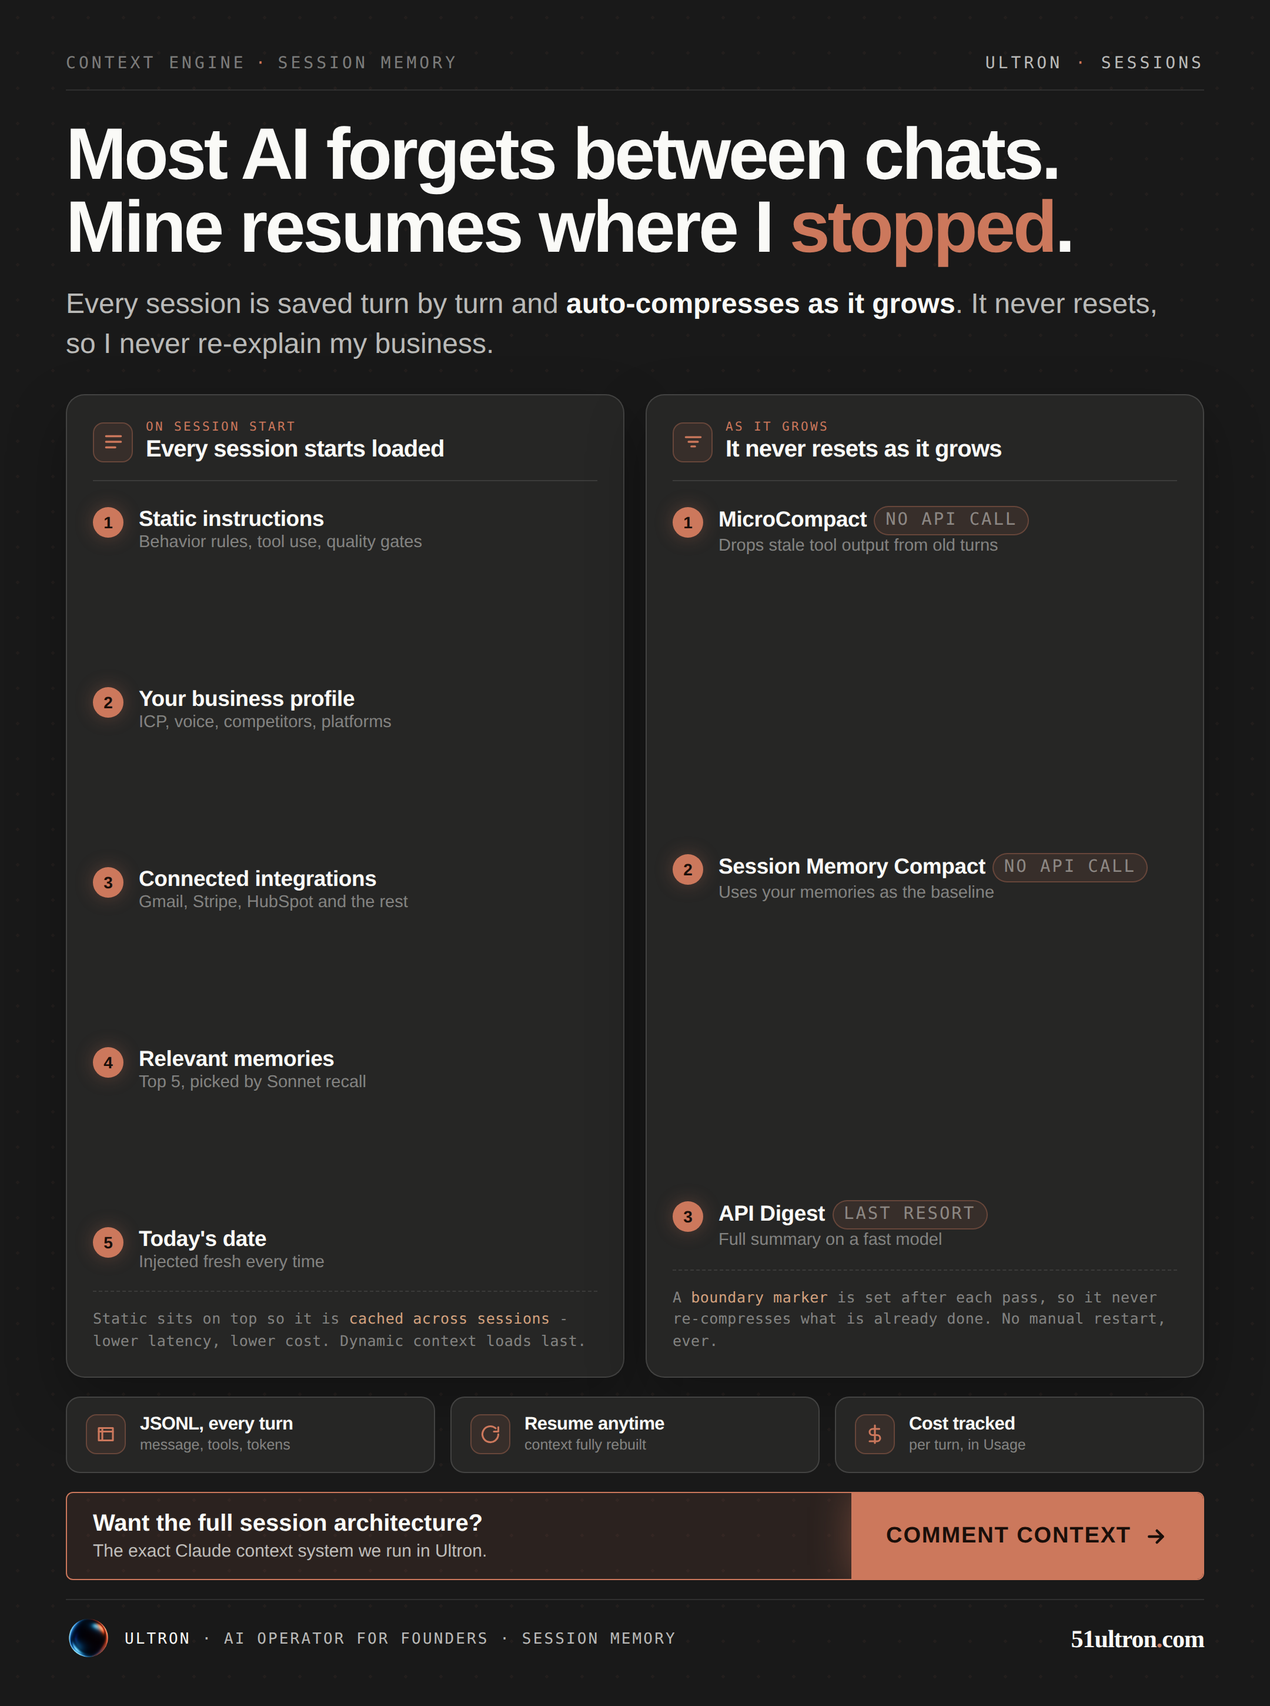
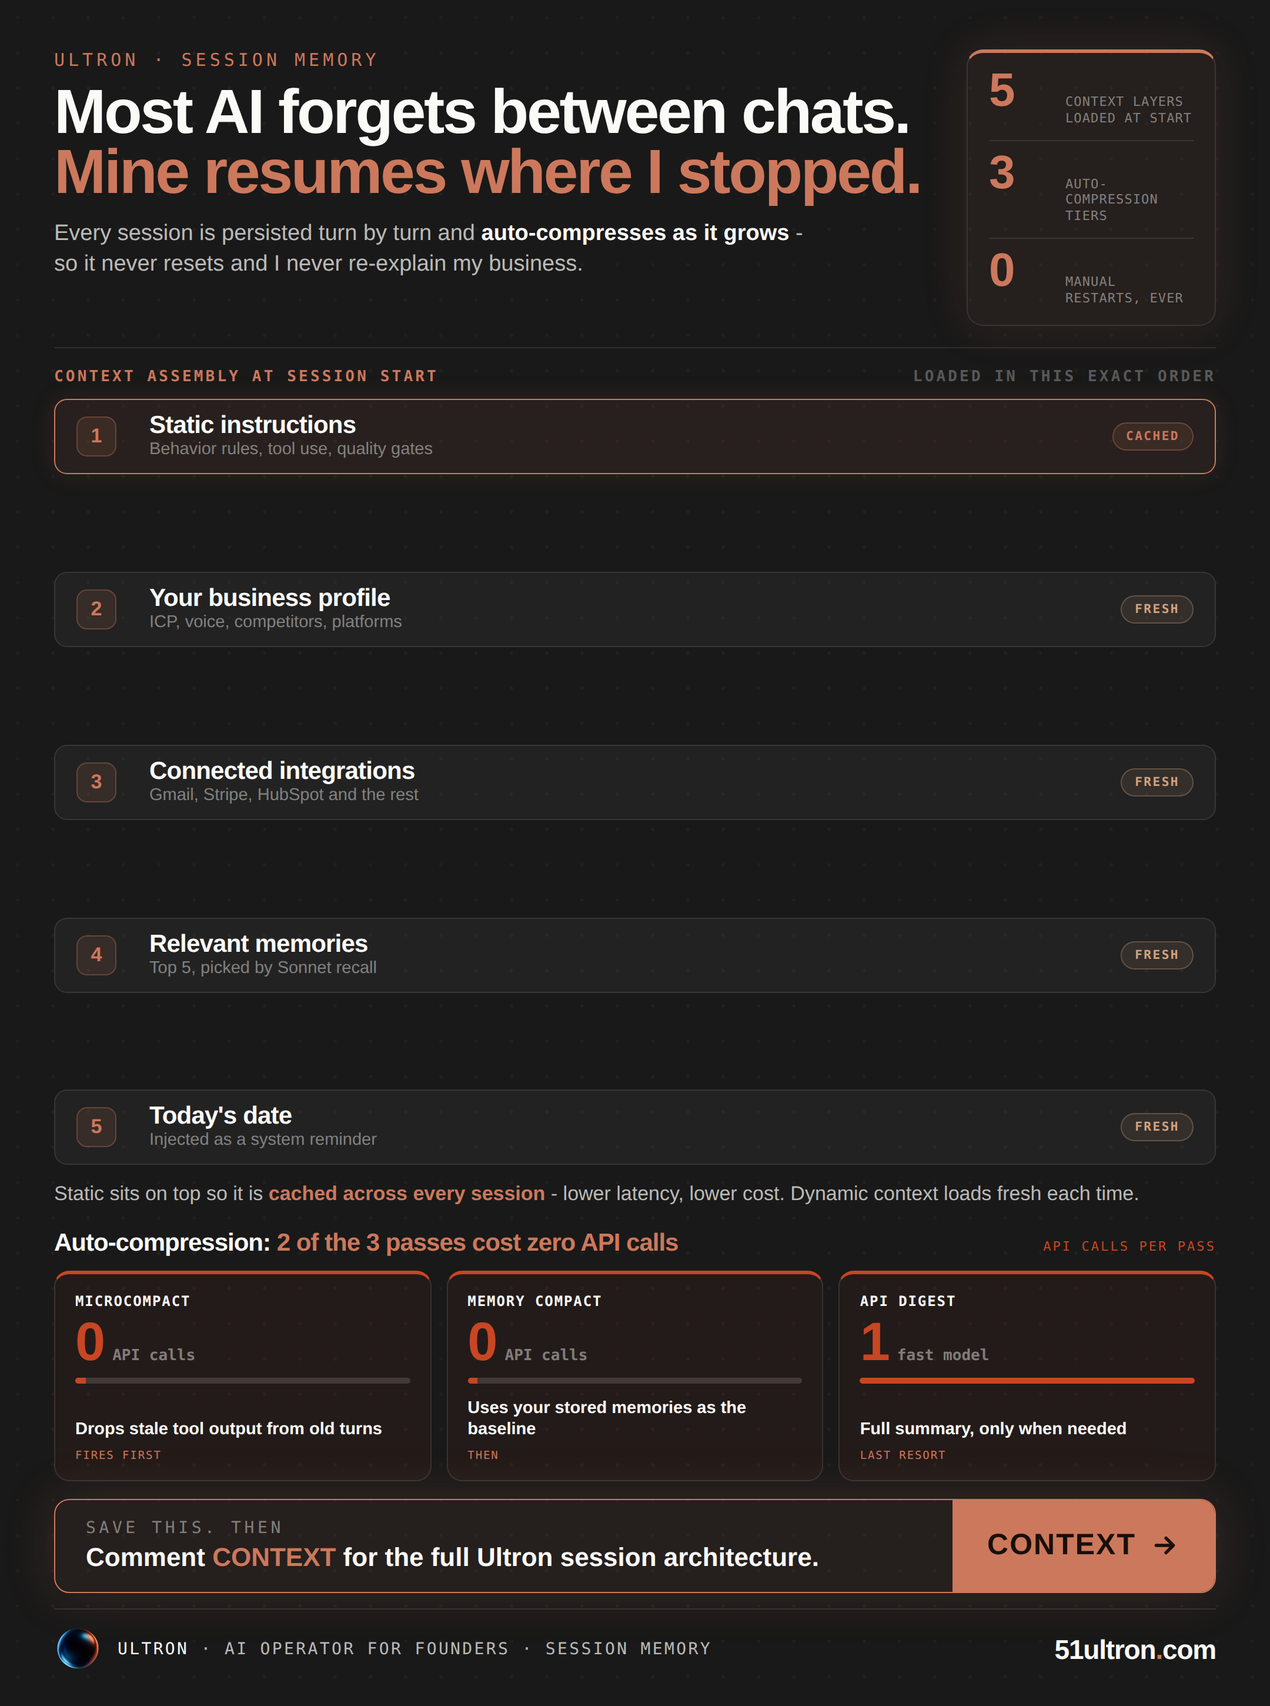
content: docs-10 Session Management LinkedIn - rebuilt dense (weighted boxes)
First version read as a light feature list with dead space. Rebuilt on the
validated dense docs-08 skeleton: hero stat tile (5 layers / 3 tiers / 0 manual
restarts), five weighted context-layer boxes (layer 1 Cached, 2-5 Fresh) for the
exact start-of-session assembly order, and three heavy compression cards with a
big stat each (MicroCompact 0 / Memory Compact 0 / API Digest 1 API calls + cost
bar). Save-this CTA, keyword CONTEXT. 1080x1450 exact, no dead space.

diff --git a/content/docs-10-sessions-linkedin.html b/content/docs-10-sessions-linkedin.html
@@ -1,85 +1,69 @@
-<!DOCTYPE html><html lang="en"><head><meta charset="UTF-8"><link href="https://fonts.googleapis.com/css2?family=DM+Sans:opsz,wght@9..40,400;9..40,500;9..40,700;9..40,800;9..40,900&family=DM+Mono:wght@400;500&display=swap" rel="stylesheet"><style>
-:root{--slate:#191919;--slate2:#262625;--ivory:#FAFAF7;--ink70:rgba(250,250,247,.72);--ink46:rgba(250,250,247,.46);--ink30:rgba(250,250,247,.30);--ink14:rgba(250,250,247,.14);--rule:rgba(250,250,247,.10);--book:#CC785C;--book-d:#C84623;--kraft:#D4A27F;--cloud:#919180;--book-lo:rgba(204,120,92,.10);--book-bd:rgba(204,120,92,.32);}
+<!DOCTYPE html><html lang="en"><head><meta charset="UTF-8"><link href="https://fonts.googleapis.com/css2?family=DM+Sans:opsz,wght@9..40,400;9..40,500;9..40,600;9..40,700;9..40,800;9..40,900&family=DM+Mono:wght@400;500&display=swap" rel="stylesheet"><style>
+:root{--slate:#191919;--slate2:#262625;--ivory:#FAFAF7;--ink70:rgba(250,250,247,.72);--ink46:rgba(250,250,247,.46);--ink30:rgba(250,250,247,.30);--ink14:rgba(250,250,247,.14);--rule:rgba(250,250,247,.10);--book:#CC785C;--book-d:#C84623;--kraft:#D4A27F;--cloud:#919180;}
 *{box-sizing:border-box;margin:0;padding:0;}
-body{background:#0d0d0d;display:flex;justify-content:center;font-family:'DM Sans',sans-serif;-webkit-font-smoothing:antialiased;}
-.art{width:1080px;height:1450px;background:var(--slate);position:relative;overflow:hidden;color:var(--ivory);padding:46px 56px 38px;display:flex;flex-direction:column;}
-.art::before{content:'';position:absolute;inset:0;pointer-events:none;z-index:0;background-image:radial-gradient(rgba(204,120,92,.05) 1.3px,transparent 1.4px);background-size:30px 30px;}
-.atm{position:absolute;inset:0;pointer-events:none;z-index:1;background:radial-gradient(ellipse 56% 30% at 90% 1%,rgba(204,120,92,.17) 0%,transparent 62%),radial-gradient(ellipse 46% 26% at 4% 99%,rgba(212,162,127,.08) 0%,transparent 60%);}
-.art>*{position:relative;z-index:2;}
-.mast{flex-shrink:0;display:flex;align-items:center;justify-content:space-between;border-bottom:1px solid var(--rule);padding-bottom:14px;font-family:'DM Mono',monospace;font-size:14px;font-weight:500;letter-spacing:.18em;text-transform:uppercase;}
-.mast .ml{color:var(--ink46);}.mast .ml .sep{color:var(--book);margin:0 8px;}
-.mast .mr{color:var(--ink70);}.mast .mr em{color:var(--book);font-style:normal;}
-.hero{flex-shrink:0;margin-top:24px;}
-.hook{font-weight:900;font-size:62px;line-height:1;letter-spacing:-2.2px;color:var(--ivory);}
-.hook em{color:var(--book);font-style:normal;}
-.hsub{margin-top:17px;font-size:24px;font-weight:500;line-height:1.4;color:var(--ink70);max-width:950px;}
-.hsub b{color:var(--ivory);font-weight:700;}
-.cols{flex:1;min-height:0;margin-top:26px;display:grid;grid-template-columns:1fr 1fr;gap:18px;}
-.panel{display:flex;flex-direction:column;min-height:0;background:var(--slate2);border:1px solid var(--ink14);border-radius:16px;padding:22px 22px 20px;box-shadow:0 20px 50px rgba(0,0,0,.28);}
-.ph{flex-shrink:0;display:flex;align-items:center;gap:11px;padding-bottom:15px;margin-bottom:6px;border-bottom:1px solid var(--rule);}
-.ph .pi{width:34px;height:34px;border-radius:9px;background:var(--book-lo);border:1px solid var(--book-bd);flex-shrink:0;display:flex;align-items:center;justify-content:center;}
-.ph .pi svg{width:19px;height:19px;stroke:var(--book);stroke-width:2.1;fill:none;stroke-linecap:round;stroke-linejoin:round;}
-.ph .pt{font-size:20px;font-weight:800;letter-spacing:-.4px;color:var(--ivory);line-height:1.05;}
-.ph .pt span{display:block;font-family:'DM Mono',monospace;font-size:10.5px;font-weight:500;letter-spacing:.16em;text-transform:uppercase;color:var(--book);margin-bottom:3px;}
-.rows{flex:1;display:flex;flex-direction:column;justify-content:space-between;gap:11px;padding:15px 0;}
-.row{display:flex;align-items:flex-start;gap:13px;}
-.row .n{width:26px;height:26px;border-radius:50%;background:var(--book);color:#1a0f0a;font-weight:900;font-size:14px;display:flex;align-items:center;justify-content:center;flex-shrink:0;margin-top:1px;box-shadow:0 0 16px rgba(204,120,92,.3);}
-.row .tx{min-width:0;}
-.row .tx b{display:block;font-size:18.5px;font-weight:700;color:var(--ivory);line-height:1.18;letter-spacing:-.2px;}
-.row .tx span{font-size:14.5px;font-weight:500;color:var(--ink46);line-height:1.3;}
-.tag{display:inline-block;font-family:'DM Mono',monospace;font-size:10px;font-weight:500;letter-spacing:.1em;text-transform:uppercase;color:var(--book);background:var(--book-lo);border:1px solid var(--book-bd);border-radius:20px;padding:2px 9px;margin-left:6px;vertical-align:1.5px;}
-.note{margin-top:auto;padding-top:14px;font-family:'DM Mono',monospace;font-size:12.5px;line-height:1.5;letter-spacing:.02em;color:var(--ink46);border-top:1px dashed var(--rule);}
-.note b{color:var(--kraft);font-weight:500;}
-.strip{flex-shrink:0;margin-top:16px;display:grid;grid-template-columns:1fr 1fr 1fr;gap:13px;}
-.cell{background:var(--slate2);border:1px solid var(--ink14);border-radius:12px;padding:14px 16px;display:flex;align-items:center;gap:12px;}
-.cell .ci{width:34px;height:34px;border-radius:9px;background:var(--book-lo);border:1px solid var(--book-bd);flex-shrink:0;display:flex;align-items:center;justify-content:center;}
-.cell .ci svg{width:18px;height:18px;stroke:var(--book);stroke-width:2.1;fill:none;stroke-linecap:round;stroke-linejoin:round;}
-.cell .cx b{display:block;font-size:15.5px;font-weight:800;color:var(--ivory);line-height:1.1;letter-spacing:-.3px;}
-.cell .cx span{font-size:12.5px;font-weight:500;color:var(--ink46);}
-.cta{flex-shrink:0;margin-top:16px;display:flex;align-items:stretch;border:1px solid var(--book);border-radius:6px;overflow:hidden;}
-.cta-l{flex:1;padding:15px 22px;display:flex;flex-direction:column;justify-content:center;gap:3px;background:var(--book-lo);}
-.cta-l b{font-size:20px;font-weight:800;color:var(--ivory);}.cta-l span{font-size:15px;color:var(--ink70);}
-.cta-r{flex-shrink:0;padding:0 30px;display:flex;align-items:center;gap:11px;background:var(--book);font-size:19px;font-weight:900;letter-spacing:.05em;text-transform:uppercase;color:#1a0f0a;box-shadow:0 0 34px rgba(204,120,92,.4);}
-.cta-r svg{width:20px;height:20px;stroke:#1a0f0a;stroke-width:2.7;fill:none;stroke-linecap:round;stroke-linejoin:round;}
-.ftr{flex-shrink:0;margin-top:16px;padding-top:14px;border-top:1px solid var(--rule);display:flex;align-items:center;justify-content:space-between;gap:16px;}
-.fl{display:flex;align-items:center;gap:12px;min-width:0;}.flogo{width:38px;height:38px;border-radius:50%;object-fit:cover;flex-shrink:0;}
-.ftx{font-family:'DM Mono',monospace;font-size:13px;font-weight:400;letter-spacing:.12em;text-transform:uppercase;color:var(--ink70);}.ftx b{color:var(--ivory);font-weight:500;}
-.furl{font-family:'DM Sans';font-weight:900;font-size:21px;letter-spacing:-.5px;color:var(--ivory);flex-shrink:0;}.furl em{color:var(--book);font-style:normal;}
-</style></head><body>
-<div class="art"><div class="atm"></div>
-  <div class="mast"><span class="ml">CONTEXT ENGINE<span class="sep">&middot;</span>SESSION MEMORY</span><span class="mr">ULTRON <em>&middot;</em> SESSIONS</span></div>
-  <div class="hero">
-    <div class="hook">Most AI forgets between chats.<br>Mine resumes where I <em>stopped</em>.</div>
-    <div class="hsub">Every session is saved turn by turn and <b>auto-compresses as it grows</b>. It never resets, so I never re-explain my business.</div>
-  </div>
-  <div class="cols">
-    <div class="panel">
-      <div class="ph"><span class="pi"><svg viewBox="0 0 24 24"><path d="M4 6h16M4 12h16M4 18h10"/></svg></span><span class="pt"><span>On session start</span>Every session starts loaded</span></div>
-      <div class="rows">
-        <div class="row"><span class="n">1</span><span class="tx"><b>Static instructions</b><span>Behavior rules, tool use, quality gates</span></span></div>
-        <div class="row"><span class="n">2</span><span class="tx"><b>Your business profile</b><span>ICP, voice, competitors, platforms</span></span></div>
-        <div class="row"><span class="n">3</span><span class="tx"><b>Connected integrations</b><span>Gmail, Stripe, HubSpot and the rest</span></span></div>
-        <div class="row"><span class="n">4</span><span class="tx"><b>Relevant memories</b><span>Top 5, picked by Sonnet recall</span></span></div>
-        <div class="row"><span class="n">5</span><span class="tx"><b>Today's date</b><span>Injected fresh every time</span></span></div>
-      </div>
-      <div class="note">Static sits on top so it is <b>cached across sessions</b> - lower latency, lower cost. Dynamic context loads last.</div>
-    </div>
-    <div class="panel">
-      <div class="ph"><span class="pi"><svg viewBox="0 0 24 24"><path d="M4 7h16M7 12h10M10 17h4"/></svg></span><span class="pt"><span>As it grows</span>It never resets as it grows</span></div>
-      <div class="rows">
-        <div class="row"><span class="n">1</span><span class="tx"><b>MicroCompact<span class="tag">no API call</span></b><span>Drops stale tool output from old turns</span></span></div>
-        <div class="row"><span class="n">2</span><span class="tx"><b>Session Memory Compact<span class="tag">no API call</span></b><span>Uses your memories as the baseline</span></span></div>
-        <div class="row"><span class="n">3</span><span class="tx"><b>API Digest<span class="tag">last resort</span></b><span>Full summary on a fast model</span></span></div>
-      </div>
-      <div class="note">A <b>boundary marker</b> is set after each pass, so it never re-compresses what is already done. No manual restart, ever.</div>
-    </div>
-  </div>
-  <div class="strip">
-    <div class="cell"><span class="ci"><svg viewBox="0 0 24 24"><path d="M4 5h16v14H4z"/><path d="M4 9h16M8 5v14"/></svg></span><span class="cx"><b>JSONL, every turn</b><span>message, tools, tokens</span></span></div>
-    <div class="cell"><span class="ci"><svg viewBox="0 0 24 24"><path d="M21 12a9 9 0 1 1-3-6.7"/><path d="M21 4v5h-5"/></svg></span><span class="cx"><b>Resume anytime</b><span>context fully rebuilt</span></span></div>
-    <div class="cell"><span class="ci"><svg viewBox="0 0 24 24"><path d="M12 2v20M17 6H9.5a3.5 3.5 0 0 0 0 7h5a3.5 3.5 0 0 1 0 7H6"/></svg></span><span class="cx"><b>Cost tracked</b><span>per turn, in Usage</span></span></div>
-  </div>
-  <div class="cta"><div class="cta-l"><b>Want the full session architecture?</b><span>The exact Claude context system we run in Ultron.</span></div><div class="cta-r">Comment CONTEXT<svg viewBox="0 0 24 24"><path d="M5 12h14M13 6l6 6-6 6"/></svg></div></div>
-  <div class="ftr"><div class="fl"><img class="flogo" src="__LOGO_URI__" alt="Ultron"><div class="ftx"><b>ULTRON</b> &middot; AI OPERATOR FOR FOUNDERS &middot; SESSION MEMORY</div></div><div class="furl">51ultron<em>.</em>com</div></div>
+body{background:#0d0d0d;display:flex;justify-content:center;padding:24px 0;font-family:'DM Sans',sans-serif;-webkit-font-smoothing:antialiased;}
+.frame{width:1080px;height:1450px;background:var(--slate);padding:42px 46px 28px;position:relative;overflow:hidden;color:var(--ivory);display:flex;flex-direction:column;}
+.frame::before{content:'';position:absolute;inset:0;pointer-events:none;z-index:0;background-image:radial-gradient(rgba(204,120,92,.06) 1.4px,transparent 1.5px);background-size:30px 30px;}
+.atm{position:absolute;inset:0;pointer-events:none;z-index:1;background:radial-gradient(ellipse 56% 28% at 88% -1%,rgba(204,120,92,.2) 0%,transparent 60%),radial-gradient(ellipse 50% 24% at 4% 101%,rgba(212,162,127,.1) 0%,transparent 60%);}
+.frame>*{position:relative;z-index:2;}
+.hero{flex-shrink:0;display:flex;align-items:flex-start;justify-content:space-between;gap:26px;padding-bottom:18px;border-bottom:1px solid var(--rule);}
+.eye{font-family:'DM Mono',monospace;font-size:15px;font-weight:500;letter-spacing:.2em;text-transform:uppercase;color:var(--book);margin-bottom:11px;}
+.hook{font-weight:900;font-size:53px;line-height:.96;letter-spacing:-1.7px;color:var(--ivory);}.hook em{color:var(--book);font-style:normal;}
+.sub{margin-top:13px;font-size:19px;font-weight:500;line-height:1.4;color:var(--ink70);max-width:640px;}.sub b{color:var(--ivory);font-weight:700;}
+.statile{flex-shrink:0;width:212px;background:rgba(204,120,92,.07);border:1px solid var(--rule);border-top:3px solid var(--book);border-radius:14px;padding:16px 18px;display:flex;flex-direction:column;gap:11px;box-shadow:0 0 40px rgba(204,120,92,.14);}
+.st{display:flex;align-items:baseline;gap:11px;}.st+.st{border-top:1px solid var(--rule);padding-top:11px;}
+.st .sn{font-weight:900;font-size:40px;color:var(--book);line-height:.8;min-width:54px;}
+.st .sl{font-family:'DM Mono',monospace;font-size:11px;font-weight:500;letter-spacing:.05em;text-transform:uppercase;color:var(--ink46);line-height:1.25;}
+.sec{font-family:'DM Mono',monospace;font-size:13px;font-weight:600;letter-spacing:.16em;text-transform:uppercase;color:var(--book);flex-shrink:0;margin:17px 0 11px;display:flex;justify-content:space-between;}
+.sec .sx{color:var(--ink30);}
+.stack{flex:1;display:flex;flex-direction:column;min-height:0;justify-content:space-between;gap:9px;}
+.srow{display:grid;grid-template-columns:46px 1fr auto;align-items:center;gap:16px;background:rgba(250,250,247,.04);border:1px solid var(--rule);border-radius:11px;padding:11px 18px;}
+.srow.cache{border-color:var(--book);background:rgba(204,120,92,.08);box-shadow:0 0 22px rgba(204,120,92,.12);}
+.srow .n{width:34px;height:34px;border-radius:9px;background:rgba(204,120,92,.12);border:1px solid rgba(204,120,92,.32);color:var(--book);font-weight:900;font-size:17px;display:flex;align-items:center;justify-content:center;}
+.srow .l b{display:block;font-size:21px;font-weight:800;letter-spacing:-.4px;color:var(--ivory);line-height:1.05;}
+.srow .l span{font-size:14.5px;font-weight:500;color:var(--ink46);}
+.srow .t{font-family:'DM Mono',monospace;font-size:10.5px;font-weight:600;letter-spacing:.12em;text-transform:uppercase;padding:5px 11px;border-radius:20px;white-space:nowrap;}
+.t.c{color:var(--book);background:rgba(204,120,92,.12);border:1px solid rgba(204,120,92,.34);}
+.t.f{color:var(--kraft);background:rgba(212,162,127,.1);border:1px solid rgba(212,162,127,.3);}
+.fnote{flex-shrink:0;font-size:17px;font-weight:500;line-height:1.4;color:var(--ink70);margin-top:13px;}.fnote b{color:var(--book);font-weight:800;}
+.wsec{flex-shrink:0;display:flex;align-items:baseline;justify-content:space-between;gap:14px;margin:18px 0 11px;}
+.wsec .wl{font-weight:800;font-size:21px;letter-spacing:-.5px;color:var(--ivory);}.wsec .wl em{color:var(--book);font-style:normal;}
+.wsec .wr{font-family:'DM Mono',monospace;font-size:11px;letter-spacing:.14em;text-transform:uppercase;color:var(--book-d);white-space:nowrap;}
+.wedge{flex-shrink:0;display:grid;grid-template-columns:repeat(3,1fr);gap:13px;}
+.wcard{background:rgba(200,70,35,.06);border:1px solid var(--rule);border-top:3px solid var(--book-d);border-radius:13px;padding:16px 17px 15px;display:flex;flex-direction:column;}
+.wdim{font-family:'DM Mono',monospace;font-size:12px;font-weight:600;letter-spacing:.08em;text-transform:uppercase;color:var(--ivory);}
+.wnum{font-weight:900;font-size:46px;color:var(--book-d);line-height:.85;margin:8px 0 2px;}.wnum span{font-size:13px;color:var(--ink46);font-family:'DM Mono',monospace;font-weight:600;margin-left:6px;}
+.wbar{height:5px;border-radius:3px;background:var(--ink14);overflow:hidden;margin:9px 0 12px;}.wbar i{display:block;height:100%;background:var(--book-d);}
+.wship{font-size:14.5px;font-weight:700;color:var(--ivory);line-height:1.25;margin-top:auto;}
+.wtag{font-family:'DM Mono',monospace;font-size:9.5px;font-weight:500;letter-spacing:.1em;text-transform:uppercase;color:var(--book);margin-top:7px;}
+.cta{flex-shrink:0;margin-top:15px;display:flex;align-items:stretch;border:1px solid var(--book);border-radius:13px;overflow:hidden;box-shadow:0 0 44px rgba(204,120,92,.18);}
+.cta-l{flex:1;padding:16px 26px;display:flex;flex-direction:column;justify-content:center;gap:4px;background:rgba(204,120,92,.07);}
+.cta-k{font-family:'DM Mono',monospace;font-size:14px;font-weight:500;letter-spacing:.2em;text-transform:uppercase;color:var(--ink46);}
+.cta-t{font-size:22px;font-weight:700;color:var(--ivory);line-height:1.2;}.cta-t b{color:var(--book);font-weight:900;}
+.cta-chip{flex-shrink:0;padding:0 30px;gap:12px;background:var(--book);display:flex;align-items:center;font-size:25px;font-weight:900;letter-spacing:.04em;text-transform:uppercase;color:#1a0f0a;}
+.cta-chip svg{width:25px;height:25px;stroke:#1a0f0a;stroke-width:2.6;fill:none;stroke-linecap:round;stroke-linejoin:round;}
+.ftr{flex-shrink:0;margin-top:13px;display:flex;align-items:center;justify-content:space-between;gap:18px;border-top:1px solid var(--rule);padding-top:14px;}
+.fl{display:flex;align-items:center;gap:14px;min-width:0;}.flogo{width:40px;height:40px;border-radius:50%;object-fit:cover;}
+.ftx{font-family:'DM Mono',monospace;font-size:14px;font-weight:400;letter-spacing:.12em;text-transform:uppercase;color:var(--ink70);}.ftx b{color:var(--ivory);font-weight:500;}
+.furl{font-weight:900;font-size:23px;letter-spacing:-.6px;color:var(--ivory);}.furl em{color:var(--book);font-style:normal;}
+</style></head><body><div class="frame" id="artifact"><div class="atm"></div>
+<div class="hero"><div><div class="eye">Ultron &middot; Session Memory</div><div class="hook">Most AI forgets between chats. <em>Mine resumes where I stopped.</em></div><div class="sub">Every session is persisted turn by turn and <b>auto-compresses as it grows</b> - so it never resets and I never re-explain my business.</div></div>
+<div class="statile"><div class="st"><div class="sn">5</div><div class="sl">context layers loaded at start</div></div><div class="st"><div class="sn">3</div><div class="sl">auto-compression tiers</div></div><div class="st"><div class="sn">0</div><div class="sl">manual restarts, ever</div></div></div></div>
+<div class="sec"><span>Context assembly at session start</span><span class="sx">loaded in this exact order</span></div>
+<div class="stack">
+<div class="srow cache"><div class="n">1</div><div class="l"><b>Static instructions</b><span>Behavior rules, tool use, quality gates</span></div><div class="t c">Cached</div></div>
+<div class="srow"><div class="n">2</div><div class="l"><b>Your business profile</b><span>ICP, voice, competitors, platforms</span></div><div class="t f">Fresh</div></div>
+<div class="srow"><div class="n">3</div><div class="l"><b>Connected integrations</b><span>Gmail, Stripe, HubSpot and the rest</span></div><div class="t f">Fresh</div></div>
+<div class="srow"><div class="n">4</div><div class="l"><b>Relevant memories</b><span>Top 5, picked by Sonnet recall</span></div><div class="t f">Fresh</div></div>
+<div class="srow"><div class="n">5</div><div class="l"><b>Today's date</b><span>Injected as a system reminder</span></div><div class="t f">Fresh</div></div>
 </div>
-</body></html>
+<div class="fnote">Static sits on top so it is <b>cached across every session</b> - lower latency, lower cost. Dynamic context loads fresh each time.</div>
+<div class="wsec"><div class="wl">Auto-compression: <em>2 of the 3 passes cost zero API calls</em></div><div class="wr">API calls per pass</div></div>
+<div class="wedge">
+<div class="wcard"><div class="wdim">MicroCompact</div><div class="wnum">0<span>API calls</span></div><div class="wbar"><i style="width:3%"></i></div><div class="wship">Drops stale tool output from old turns</div><div class="wtag">Fires first</div></div>
+<div class="wcard"><div class="wdim">Memory Compact</div><div class="wnum">0<span>API calls</span></div><div class="wbar"><i style="width:3%"></i></div><div class="wship">Uses your stored memories as the baseline</div><div class="wtag">Then</div></div>
+<div class="wcard"><div class="wdim">API Digest</div><div class="wnum">1<span>fast model</span></div><div class="wbar"><i style="width:100%"></i></div><div class="wship">Full summary, only when needed</div><div class="wtag">Last resort</div></div>
+</div>
+<div class="cta"><div class="cta-l"><div class="cta-k">Save this. Then</div><div class="cta-t">Comment <b>CONTEXT</b> for the full Ultron session architecture.</div></div><div class="cta-chip">CONTEXT <svg viewBox="0 0 24 24"><path d="M5 12h14M13 6l6 6-6 6"/></svg></div></div>
+<div class="ftr"><div class="fl"><img class="flogo" src="__LOGO_URI__" alt="Ultron"><div class="ftx"><b>ULTRON</b> &middot; AI OPERATOR FOR FOUNDERS &middot; SESSION MEMORY</div></div><div class="furl">51ultron<em>.</em>com</div></div>
+</div></body></html>
